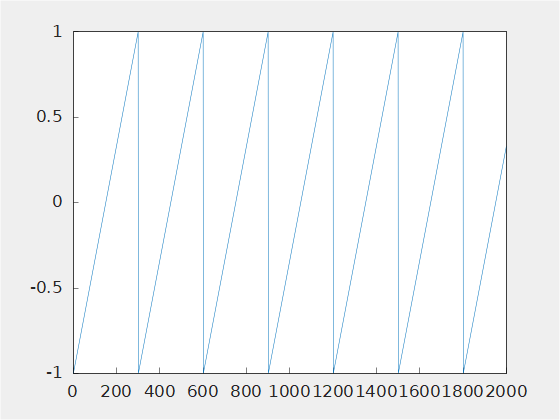
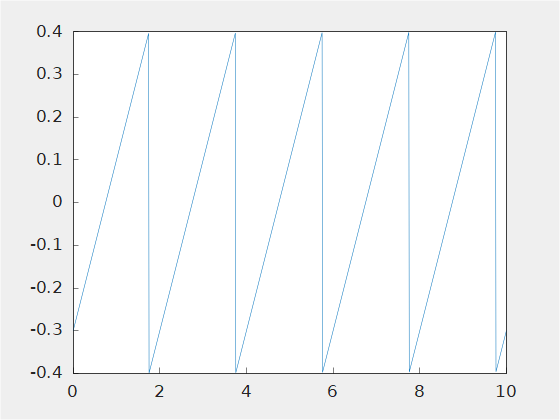
modified:   raport/generated_cosine.png 	modified:   raport/generated_sawtooth.png 	modified:   raport/generated_sine.png 	modified:   raport/generated_square.png 	modified:   raport/raport.ipynb 	modified:   src/main.cpp 	modified:   src/scikit_build_example/__init__.py

diff --git a/src/main.cpp b/src/main.cpp
@@ -3,6 +3,7 @@
 #include <pybind11/pybind11.h>
 #include <pybind11/stl.h>
 #include <pybind11/complex.h>
+#include <pybind11/numpy.h>
 #include <matplot/matplot.h>
 #include <cmath>
 #include <vector>
@@ -12,15 +13,6 @@
 #define MACRO_STRINGIFY(x) STRINGIFY(x)
 
 namespace py = pybind11;
-
-struct complexnumber {
-    double real = 0.0;
-    double imaginary = 0.0;
-};
-
-int add(int i, int j) {
-    return i + j;
-}
 
 std::vector<std::complex<double>> dft(std::vector<double> a, int n) {
     std::complex<double> tmp;
@@ -79,65 +71,42 @@ void spectrum(std::vector<std::complex<double>> a, int n, int samprate, std::str
     matplot::show();
 }
 
-void plot(std::vector<double> signal) {
-    matplot::plot(signal);
+void plot(std::vector<double> signal, std::vector<double> t = {}) {
+    if (t.size() == 0) {
+        matplot::plot(signal);
+    }
+    else {
+        matplot::plot(t, signal);
+    }
     matplot::show();
 }
 
-std::vector<double> genSquareWave(int period, int samples, double duty_cycle = 0.5, double amplitude = 1, int phase_in_degrees = 0) {
-    std::vector<double> wave;
-    wave.resize(samples);
-    int phase_in_samples = lround(phase_in_degrees / 360.0 * period);
-    int pulse_width = lround(duty_cycle * period);
-    for (int i = 0; i < period; i++) {
-        if ((i + period - phase_in_samples) % period < pulse_width) {
-            wave[i] = amplitude;
-        }
-        else {
-            wave[i] = -amplitude;
-        }
-    }
-    for (int i = period; i < samples; i++) {
-        wave[i] = wave[i % period];
-    }
-    return wave;
+double genSquareWave(double t, double frequency, double amplitude, double phase_in_degrees) {
+    return amplitude * copysign(1.0, sin(2 * M_PI * (t *frequency - phase_in_degrees / 360)));
 }
 
-std::vector<double> genSawtoothWave(int period, int samples, double amplitude = 1, int phase_in_degrees = 0) {
-    std::vector<double> wave;
-    wave.resize(samples);
-    int phase_in_samples = lround(phase_in_degrees / 360.0 * period);
-    double step = amplitude * 2 / (period - 1);
-    for (int i = 0; i < period; i++) {
-        int j = (i + period - phase_in_samples) % period;
-        if (j == period - 1) {
-            wave[i] = amplitude;
-        }
-        else {
-            wave[i] = -amplitude + j * step;
-        }
-    }
-    for (int i = period; i < samples; i++) {
-        wave[i] = wave[i % period];
-    }
-    return wave;
+double genSawtoothWave(double t, double frequency, double amplitude, double phase_in_degrees) {
+    return amplitude * 2 / M_PI * atan(tan(M_PI * (t *frequency - (phase_in_degrees + 180) / 360)));
 }
 
-std::vector<double> genSineWave(int period, int samples, double amplitude = 1, int phase_in_degrees = 0) {
-    std::vector<double> wave;
-    wave.resize(samples);
-    for (int i = 0; i < period; i++) {
-        wave[i] = amplitude * sin(2 * M_PI * (1.0 * i / period - phase_in_degrees / 360.0));
-    }
-    for (int i = period; i < samples; i++) {
-        wave[i] = wave[i % period];
-    }
-    return wave;
+double genSineWave(double t, double frequency, double amplitude, double phase_in_degrees) {
+    return amplitude * sin(2 * M_PI * (t *frequency - phase_in_degrees / 360));
 }
 
-std::vector<double> genCosineWave(int period, int samples, double amplitude = 1, int phase_in_degrees = 0) {
-    phase_in_degrees -= 90;
-    return genSineWave(period, samples, amplitude, phase_in_degrees);
+double genSignal(double t, std::string type, double frequency, double amplitude = 1, double phase_in_degrees = 0) {
+    if (type == "square") {
+        return genSquareWave(t, frequency, amplitude, phase_in_degrees);
+    }
+    if (type == "sawtooth") {
+        return genSawtoothWave(t, frequency, amplitude, phase_in_degrees);
+    }
+    if (type == "sine") {
+        return genSineWave(t, frequency, amplitude, phase_in_degrees);
+    }
+    if (type == "cosine") {
+        phase_in_degrees -= 90;
+        return genSineWave(t, frequency, amplitude, phase_in_degrees);
+    }
 }
 
 PYBIND11_MODULE(_core, m) {
@@ -156,18 +125,6 @@ PYBIND11_MODULE(_core, m) {
            rdft
     )pbdoc";
 
-    m.def("add", &add, R"pbdoc(
-        Add two numbers
-
-        Some other explanation about the add function.
-    )pbdoc");
-
-    m.def("subtract", [](int i, int j) { return i - j; }, R"pbdoc(
-        Subtract two numbers
-
-        Some other explanation about the subtract function.
-    )pbdoc");
-
     m.def("dft", &dft, R"pbdoc(
         Direct Fourier Transform
     )pbdoc");
@@ -184,24 +141,13 @@ PYBIND11_MODULE(_core, m) {
         Signal derivative
     )pbdoc");
 
-    m.def("plot", &plot, py::arg("signal"), R"pbdoc(
+    std::vector<double> v = {};
+    m.def("plot", &plot, py::arg("signal"), py::arg("t") = v, R"pbdoc(
         Plot signal
     )pbdoc");
 
-    m.def("genSquareWave", &genSquareWave, py::arg("period"), py::arg("samples"), py::arg("duty_cycle") = 0.5, py::arg("amplitude") = 1, py::arg("phase_in_degrees") = 0, R"pbdoc(
-        Generate square wave
-    )pbdoc");
-
-    m.def("genSawtoothWave", &genSawtoothWave, py::arg("period"), py::arg("samples"), py::arg("amplitude") = 1, py::arg("phase_in_degrees") = 0, R"pbdoc(
-        Generate sawtooth wave
-    )pbdoc");
-
-    m.def("genSineWave", &genSineWave, py::arg("period"), py::arg("samples"), py::arg("amplitude") = 1, py::arg("phase_in_degrees") = 0, R"pbdoc(
-        Generate sine wave
-    )pbdoc");
-
-    m.def("genCosineWave", &genCosineWave, py::arg("period"), py::arg("samples"), py::arg("amplitude") = 1, py::arg("phase_in_degrees") = 0, R"pbdoc(
-        Generate cosine wave
+    m.def("genSignal", py::vectorize(genSignal), py::arg("t"), py::arg("type"), py::arg("frequency"), py::arg("amplitude") = 1, py::arg("phase_in_degrees") = 0, R"pbdoc(
+        Generate signal
     )pbdoc");
 
 /*#ifdef VERSION_INFO

diff --git a/src/scikit_build_example/__init__.py b/src/scikit_build_example/__init__.py
@@ -1,4 +1,4 @@
 from __future__ import annotations
 
-from ._core import __doc__, __version__, add, subtract, dft, idft, spectrum, deriv, plot, genSquareWave, genSawtoothWave, genSineWave, genCosineWave
-__all__ = ["__doc__", "__version__", "add", "subtract", "dft", "idft", "spectrum", "deriv", "plot", "genSquareWave", "genSawtoothWave", "genSineWave", "genCosineWave"]
+from ._core import __doc__, __version__, dft, idft, spectrum, deriv, plot, genSignal
+__all__ = ["__doc__", "__version__", "dft", "idft", "spectrum", "deriv", "plot", "genSignal"]
